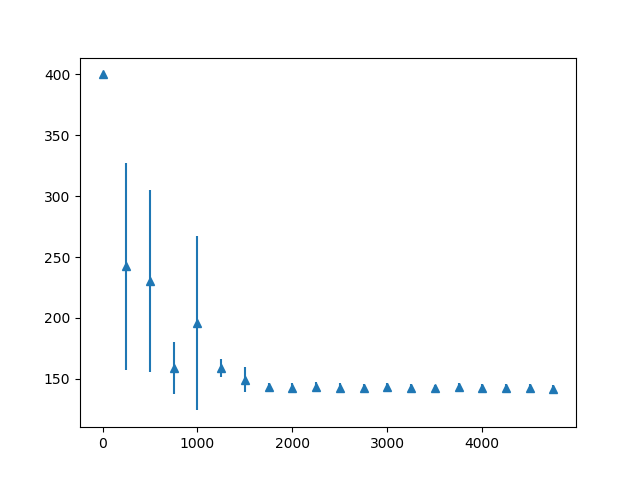
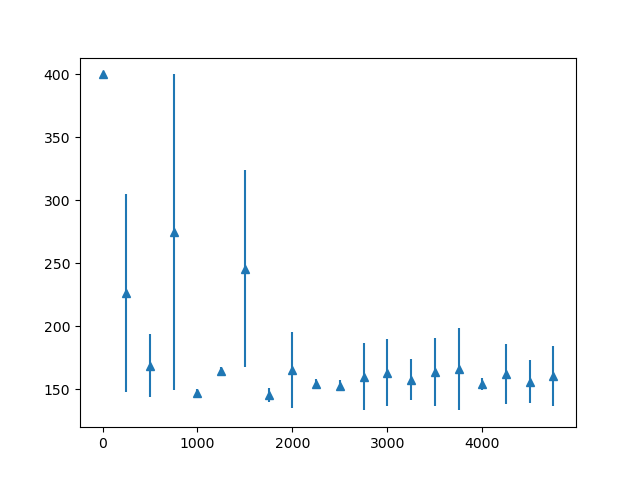
Code cleanups

diff --git a/SAgent2.py b/SAgent2.py
@@ -1,0 +1,52 @@
+import random
+
+import numpy as np
+
+from BaseAgent import BaseAgent
+
+
+class SAgent2(BaseAgent):
+    def __init__(self):
+        super().__init__()
+        self.env._max_episode_steps = 400
+        self.max_epochs = 5000
+        self.alpha = 0.2
+        self.gamma = 1.0
+        self.epsilon = 0.8
+        self.result_name = 'Q2.png'
+
+        self.n_actions = self.env.action_space.n
+        self.state_space = ((self.env.high - self.env.low) * np.array([10, 100])).astype(int) + 1
+
+        self.w = np.zeros((self.n_actions, np.prod(self.state_space)))
+
+    def featurize(self, state):
+        i = np.round((state - self.env.observation_space.low) * np.array([10, 100]), 0).astype(int)
+        s = np.zeros(self.state_space)
+        s[i[0], i[1]] = 1
+
+        return s.reshape(1, np.prod(self.state_space))
+
+    def Q(self, state, action):
+        return state.dot(self.w[action])
+
+    def policy(self, state, epsilon=0):
+        a = np.argmax([self.Q(state, a) for a in range(self.n_actions)])
+        return self.env.action_space.sample() if random.uniform(0, 1) < epsilon else a
+
+    def perform_step(self, state, action):
+        next_state, reward, done, _ = self.env.step(action)
+
+        if done and next_state[0] >= 0.5:
+            mask = (state.dot(reward) != 0).reshape((state.shape[1]))
+            self.w[action][mask != 0] = reward
+        else:
+            next_state = self.featurize(next_state)
+            next_action = self.policy(next_state)
+            current_q = self.Q(state, action)
+            next_q = self.Q(next_state, next_action)
+
+            self.w[action] += self.alpha * (reward + self.gamma * next_q - current_q).dot(state)
+
+        self.epsilon -= self.epsilon / self.max_epochs
+        return next_state, done

diff --git a/SAgent.py b/SAgent.py
@@ -3,10 +3,10 @@ from sklearn.kernel_approximation import RBFSampler
 from sklearn.pipeline import FeatureUnion
 from sklearn.preprocessing import StandardScaler
 
-from BaseAgent import Agent
+from BaseAgent import BaseAgent
 
 
-class SAgent(Agent):
+class SAgent(BaseAgent):
     def __init__(self):
         super().__init__()
         self.env._max_episode_steps = 300
@@ -28,7 +28,7 @@ class SAgent(Agent):
         self.featurizer = FeatureUnion(features)
         self.featurizer.fit(self.scaler.transform(samples))
 
-        self.w = np.zeros((self.env.action_space.n, self.n_components * len(features)))
+        self.w = np.zeros((self.n_actions, self.n_components * len(features)))
 
     def featurize(self, state):
         return self.featurizer.transform(self.scaler.transform([state]))
@@ -48,7 +48,6 @@ class SAgent(Agent):
         next_action = self.policy(next_state)
         current_q = self.Q(state, action)
         next_q = self.Q(next_state, next_action)
-
         self.w[action] += self.alpha * (reward + self.gamma * next_q - current_q).dot(state)
         self.epsilon -= self.epsilon / self.max_epochs
         return next_state, done

diff --git a/QAgent.py b/QAgent.py
@@ -2,10 +2,10 @@ import random
 
 import numpy as np
 
-from BaseAgent import Agent
+from BaseAgent import BaseAgent
 
 
-class QAgent(Agent):
+class QAgent(BaseAgent):
     def __init__(self):
         super().__init__()
         self.env._max_episode_steps = 400
@@ -37,6 +37,6 @@ class QAgent(Agent):
             current_q = self.q_table[state[0], state[1], action]
             next_q = np.max(self.q_table[next_state[0], next_state[1]])
 
-            self.q_table[state[0], state[1], action] = current_q + self.alpha * (reward + self.gamma * next_q - current_q)
+            self.q_table[state[0], state[1], action] += self.alpha * (reward + self.gamma * next_q - current_q)
         self.epsilon -= self.epsilon / self.max_epochs
         return next_state, done

diff --git a/main.py b/main.py
@@ -1,14 +1,15 @@
 from QAgent import QAgent
+from SAgent2 import SAgent2
 from SAgent import SAgent
 
 if __name__ == "__main__":
-    # agents = [('QAgent', QAgent()), ('SAgent', SAgent())]
-    agents = [('SAgent', SAgent())]
+    agents = [('QAgent', QAgent()), ('SAgent_RBF', SAgent()), ('SAgent_Discretisize', SAgent2())]
+
     result = {n: [] for n, a in agents}
 
     for name, agent in agents:
         agent.train()
-        for i in range(100):
+        for i in range(1000):
             print(f'Simulation {i} for: {name}')
             result[name].append(agent.simulate(render=False))
         agent.shutdown()

diff --git a/BaseAgent.py b/BaseAgent.py
@@ -6,7 +6,7 @@ from os.path import join
 import matplotlib.pyplot as plt
 
 
-class Agent(object):
+class BaseAgent(object):
     __metaclass__ = abc.ABCMeta
 
     def __init__(self):
